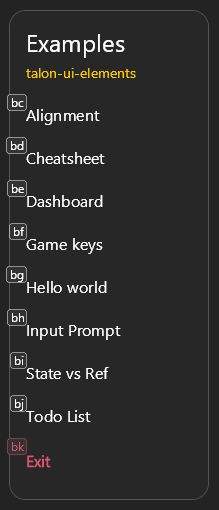
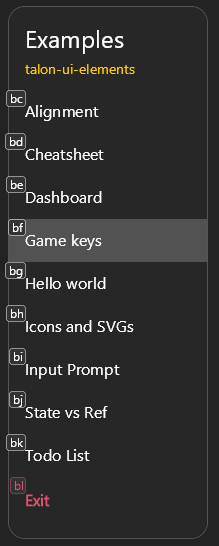
Update documentation based on v0.7

diff --git a/examples/dashboard_ui.py b/examples/dashboard_ui.py
@@ -53,7 +53,7 @@ def dashboard_ui():
         return on_click
 
     def header():
-        return div(flex_direction='row', justify_content='space_between', id="header", border_bottom=1, border_color="555555")[
+        return div(flex_direction='row', justify_content='space_between', border_bottom=1, border_color="555555")[
             text("Dashboard", font_size=24, padding=16),
             button(on_click=actions.user.ui_elements_hide_all)[
                 icon("close", size=20, padding=6),
@@ -61,7 +61,7 @@ def dashboard_ui():
         ]
 
     def sidebar():
-        return div(border_right=1, overflow_y="scroll", id="scrolly")[
+        return div(border_right=1, overflow_y="scroll")[
             *[button(
                 name,
                 on_click=on_click_wrapper(name),
@@ -83,7 +83,7 @@ def dashboard_ui():
     return screen(justify_content="center", align_items="center")[
         div(draggable=True, background_color="272727", border_radius=8, width=900, height=600, border_width=1)[
             header(),
-            div(flex_direction="row", height="100%", id="main")[
+            div(flex_direction="row", height="100%")[
                 sidebar(),
                 body()
             ],

diff --git a/README.md b/README.md
@@ -1,6 +1,6 @@
 # ui_elements
 
-[ui_elements](.) is an experimental library for building stateful voice activated overlays and UIs using HTML/CSS/React-like syntax, for use with [Talon](https://talonvoice.com/).
+[ui_elements](.) is an experimental library for building stateful voice activated overlays and UIs using a HTML/CSS/React-inspired syntax for python, for use with [Talon](https://talonvoice.com/).
 
 ![ui_elements](./examples/ui_elements_preview.png)
 
@@ -8,8 +8,9 @@
 - HTML-like elements such as `div`, `text`, `button`, `input_text`
 - 40+ CSS-like properties such as `width`, `background_color`, `margin`, `padding_left`, `flex_direction`
 - Reactive utilties `state`, `effect`, and `ref`
-- Talon actions for setting text, highlighting elements, and changing state
-- Voice activated hints displayed on all buttons and text inputs
+- Dragging and scrolling
+- Talon actions for highlighting elements, changing state, setting text
+- Voice activated hints
 
 ## Prerequisites
 - [Talon](https://talonvoice.com/)
@@ -96,27 +97,27 @@ Now when you say "show hello world", the UI should appear.
 
 Congratulations! You've created your first UI. 🎉
 
-Start trying out properties to see how it changes. See all supported [properties](./docs/properties.md) for styling.
+See all supported [properties](./docs/properties.md) for styling.
 
-> Note: It's a good idea to say "Talon open log" and watch the log while developing. This will help you if you make any mistakes.
+> Note: It's a good idea to say "talon open log" and watch the log while developing. This will help you with supported properties and incorrect usage. You also might want to create a "talon restart" command in case changes don't apply while developing. See [Development suggestions](#development-suggestions).
 
 ## Examples
 
-Checkout out examples in the [examples](./examples) folder. Or say "elements test" to view live interactive examples.
-| Example | Preview | Description |
-|----|----|----|
-| [alignment_ui](./examples/alignment_ui.py) | [preview](./examples/alignment_preview.png) |Showcase 9 different flexbox arrangements |
-| [cheatsheet_ui](./examples/cheatsheet_ui.py) | [preview](./examples/cheatsheet_preview.png) | A list of commands on the left or right of your screen that can change state |
-| [dashboard_ui](./examples/dashboard_ui.py) | [preview](./examples/dashboard_preview.png) | Has a title bar, a side bar, and a reactive body |
-| [game_keys_ui](./examples/game_keys_ui.py) | [preview](./examples/game_keys_preview.png) | Game keys overlay for gaming, that highlights respective keys |
-| [hello_world_ui](./examples/hello_world_ui.py) | [preview](./examples/hello_world_preview.png) | Simple hello world UI |
-| [inputs_ui](./examples/inputs_ui.py) | [preview](./examples/inputs_preview.png) | Text input, ref, validation, and submit with a button |
-| [state_vs_refs_ui](examples/state_vs_refs_ui.py) | [preview](./examples/state_vs_refs_preview.png) | Two versions of a counter using state or ref |
-| [icons_svgs_ui](./examples/icons_svgs_ui.py) | [preview](./examples/icons_svgs_preview.png) | Icons and custom SVGs |
-| [todo_list_ui](./examples/todo_list_ui.py) | [preview](./examples/todo_list_preview.png) | A todo list with an input, add, and remove functionality |
+Say "elements test" to bring up the examples.
+
+<p align="center">
+  <img src="./examples/examples_preview.png" alt="examples" width="150"/>
+</p>
+
+You can find these in the [examples](./examples) folder for code and previews.
 
 ## Elements
-returned from `actions.user.ui_elements`:
+Returned from `actions.user.ui_elements`:
+
+Example:
+```py
+screen, div, button = actions.user.ui_elements(["screen", "div", "button"])
+```
 
 | Element | Description |
 |---------|-------------|
@@ -131,6 +132,8 @@ returned from `actions.user.ui_elements`:
 | `effect` | Run side effects on mount, unmount, or state change. |
 | `ref` | Reference to an element "id", which provides a way to imperatively get and set properties, with reactive updates. Useful for `input_text` value. |
 
+Also see [SVG Elements](#svg-elements).
+
 ## Box Model
 ui_elements have the same box model as normal HTML, with `margin`, `border`, `padding`, and `width` and `height` and operate under `box-sizing: border-box` assumption, meaning border and padding are included in the width and height.
 
@@ -138,27 +141,12 @@ ui_elements have the same box model as normal HTML, with `margin`, `border`, `pa
 ui_elements are all `display: flex`, and default to `flex_direction="column"`with `align_items="stretch"`. This means when you don't provide anything, it will act similarly to `display: block`.
 
 ### Alignment examples
-If you aren't familiar with flexbox, check out this [CSS Tricks Guide to Flexbox](https://css-tricks.com/snippets/css/a-guide-to-flexbox/).
+If you aren't familiar with flexbox, you can read any standard HTML guide such as [CSS Tricks Guide to Flexbox](https://css-tricks.com/snippets/css/a-guide-to-flexbox/).
 
-Some examples:
-```py
-# children of screen will be bottom right
-screen(align_items="flex_end", justify_content="flex_end")
+<div align="center">
+  <img src="./examples/alignment_preview.png" alt="alignment" width="800"/>
+</div>
 
-# children of screen will be center
-screen(align_items="center", justify_content="center")
-
-# children of screen will be top left
-screen(align_items="flex_start", justify_content="flex_start")
-
-# children of screen will be top right
-screen(flex_direction="row", align_items="flex_start", justify_content="flex_end")
-
-# full width or height depending on flex_direction
-div(flex=1)
-```
-
-See [alignment_ui](./examples/alignment_ui.py) for more.
 ## State
 
 ```py
@@ -346,6 +334,17 @@ screen()[
 ]
 ```
 
+## Scrolling
+
+You can enable a vertical scroll bar by adding `overflow_y: "scroll"` property to a div. Then set a `height` or `max_height` on the element or a parent.
+
+Example:
+```python
+div(overflow_y="scroll")[
+    ...
+]
+```
+
 ## Focus outline
 When the UI is interactive (either draggable, or has buttons or inputs), then focus outlines appear when you tab through the elements. To change the color and width of the focus outline, you can use the following properties:
 
@@ -423,4 +422,4 @@ class Actions:
 Uses Talon's `Canvas` and Skia canvas integration under the hood, along with Talon's experimental `TextArea` for input.
 
 ## Dependencies
-none
+none, other than Talon

diff --git a/docs/icons_and_svgs.md b/docs/icons_and_svgs.md
@@ -1,26 +1,37 @@
 # Icons and SVGs
 
-All icons use `actions.user.ui_elements_svg` behind the scenes, meaning it's also very easy for you to make your own svg icons if this list doesn't cover your needs.
+The "icon" ui_element defaults to 24 "size" property, and are built using `actions.user.ui_elements_svg` behind the scenes, based on HTML from https://iconsvg.xyz/, so if you don't find an icon you like, you can make one yourself.
 
 - [Icons and SVGs](#icons-and-svgs)
   - [Icons](#icons)
+  - [Default properties](#default-properties)
+  - [Available icons](#available-icons)
   - [SVGs](#svgs)
+  - [Convert HTML SVG to ui\_elements code](#convert-html-svg-to-ui_elements-code)
 
 ## Icons
 
-You can checkout some example icons by saying "elements test".
+You can see some available icons by saying "elements test".
 
 Usage:
 ```py
-div, icon = actions.user.ui_elements(["div", "icon"])
+screen, div, icon = actions.user.ui_elements(["screen", "div", "icon"])
 
-div()[
-    icon("arrow_down")
+return screen()[
+    div()[
+        icon("arrow_down")
+    ]
 ]
 ```
 
-Defaults to `size=24`, `stroke_width=2`, `color="FFFFFF"`.
+## Default properties
+| Property | Default |
+| -- | -- |
+| `size` | 24 |
+| `stroke_width` | 2 |
+| `color` | "FFFFFF" |
 
+## Available icons
 | Icon name |
 | -- |
 arrow_down
@@ -35,6 +46,8 @@ close
 download
 edit
 external_link
+file
+folder
 menu
 mic
 play
@@ -48,6 +61,7 @@ more_vertical
 plus
 settings
 star
+upload
 
 ## SVGs
 
@@ -64,20 +78,31 @@ The following elements are supported for SVGs.
 | `polygon` | Accepts `points` attribute. |
 
 For the most part it matches the HTML SVG spec.
-Based on a standard `view_box="0 0 24 24"`. You can use `size` to resize, and `stroke_width` to change the stroke width.
+Based on a standard `view_box="0 0 24 24"`. You can use `size` on the `svg` element to resize the whole thing, and `stroke_width` to change the stroke width.
 
 Usage:
 ```py
-div = actions.user.ui_elements("div")
+screen = actions.user.ui_elements("screen")
 svg, path, rect = actions.user.ui_elements(["svg", "path", "rect"])
 
 Usage:
 ```py
 # copy icon
-div()[
+screen(align_items="center", justify_content="center")[
     svg()[
         rect(x=9, y=9, width=13, height=13, rx=2, ry=2),
         path(d="M5 15H4a2 2 0 0 1-2-2V4a2 2 0 0 1 2-2h9a2 2 0 0 1 2 2v1"),
     ]
 ]
+```
+
+## Convert HTML SVG to ui_elements code
+
+You can convert HTML SVG code to ui_elements code by changing properties to snake case, and omitting most of the svg properties.
+For example, here's the HTML SVG "copy" icon from https://iconsvg.xyz/:
+```html
+<svg xmlns="http://www.w3.org/2000/svg" width="24" height="24" viewBox="0 0 24 24" fill="none" stroke="#000000" stroke-width="2.5" stroke-linecap="round" stroke-linejoin="round">
+    <rect x="9" y="9" width="13" height="13" rx="2" ry="2"></rect>
+    <path d="M5 15H4a2 2 0 0 1-2-2V4a2 2 0 0 1 2-2h9a2 2 0 0 1 2 2v1"></path>
+</svg>
 ```

diff --git a/docs/effect.md b/docs/effect.md
@@ -6,7 +6,10 @@
 ```py
 screen, div, text, effect = actions.user.ui_elements(["screen", "div", "text", "effect"])
 
-effect(lambda: print("Mounted"), [])
+def on_mount():
+    print("Mounted")
+
+effect(on_mount, [])
 
 return screen()[
     div()[
@@ -15,16 +18,19 @@ return screen()[
 ]
 ```
 
-`effect` takes a function and a list of dependencies. In this case, because there are no dependencies, the `effect`  above will only be called only on mount, after the UI is rendered.
+`effect` takes a function and a list of dependencies. If there are no dependencies, the `effect`  above will only be called only on mount, after the UI is rendered.
 
 ## On state change
 ```py
 mode, set_mode = state.use("mode", "default")
 
-effect(lambda: print("Mode changed to", mode), ["mode"])
+def on_mode_change():
+    print("Mode changed to", mode)
+
+effect(on_mode_change, ["mode"])
 ```
 
-Dependencies are strings, not values, and refer to any global state key. In this case, the lambda function will be called on mount, and on every time the global state `"mode"` changes.
+Dependencies are strings, not values, and refer to any global state key. The above will be called on mount, and whenever the `mode` state changes.
 
 ## Cleanup/Unmount
 

diff --git a/docs/ref.md b/docs/ref.md
@@ -33,19 +33,17 @@ hello_ref.background_color = "blue"
 
 ## With inputs
 
-refs are especially useful with `input_text`
-
 ```py
 screen, div, input_text, ref = actions.user.ui_elements(["screen", "div", "input_text", "ref"])
 
-input_ref = ref("input")
+input_ref = ref("input_id")
 
 def submit():
     print(input_ref.value)
 
 return screen()[
     div()[
-        input_text("Type here", id="input"),
+        input_text("Type here", id="input_id"),
         button("Submit", on_click=submit),
     ],
 ]
@@ -62,13 +60,13 @@ input_ref.clear()
 
 Use `scroll_to` to scroll to position
 ```py
-hello_ref = ref("hello")
+hello_ref = ref("hello_id")
 hello_ref.scroll_to(0, 0) # x, y
 ```
 
 ## `user.actions` vs `ref`
 ```py
-text("Hello world", id="hello"),
+text("Hello world", id="hello_id"),
 ```
 | Talon `user.actions` | ref equivalent |
 | --- | --- |

diff --git a/docs/state.md b/docs/state.md
@@ -50,6 +50,10 @@ actions.user.ui_elements_show(hello_world_ui, initial_state={"mode": "default"})
 ## Complex state
 State is not restricted to simple values. You can store objects, arrays, or any other data structure. If you use a callback in the setter, it will give you the previous value, and you can return the new value.
 
+```py
+actions.user.ui_elements_set_state("form", lambda form: {**form, "name": "new_name"})
+```
+
 ## Rerenders
 State changes do a full rerender every time (for now). If you just need to change the text, use `actions.user.ui_elements_set_text` or a `ref`, as those text updates render on a separate decoration layer and do not cause a relayout.
 

diff --git a/docs/defaults.md b/docs/defaults.md
@@ -11,14 +11,6 @@ The box model is based on `box-sizing: border-box`, meaning if you define width 
 ## Gap
 `gap` is `0` by default, but if two text elements are vertically aligned, the default gap is `16`.
 
-## Default Properties
-| Property | Default |
-| --- | --- |
-| `color` | `FFFFFF` |
-| `border_color` | `555555` |
-| `font_size` | `16` |
-| `flex_direction` | `column` |
-| `align_items` | `stretch` |
-| `justify_content` | `flex_start` |
-| `focus_outline_color` | `FFCC00` |
-| `focus_outline_width` | `2` |
+
+## Defaults
+See [constants](../src/constants.py) for defaults.

diff --git a/docs/scrolling.md b/docs/scrolling.md
@@ -1,0 +1,10 @@
+# Scrolling
+
+You can enable a vertical scroll bar by adding `overflow_y: "scroll"` property to a div. Then set a `height` or `max_height` on the element or a parent.
+
+Example:
+```python
+div(overflow_y="scroll")[
+    ...
+]
+```
